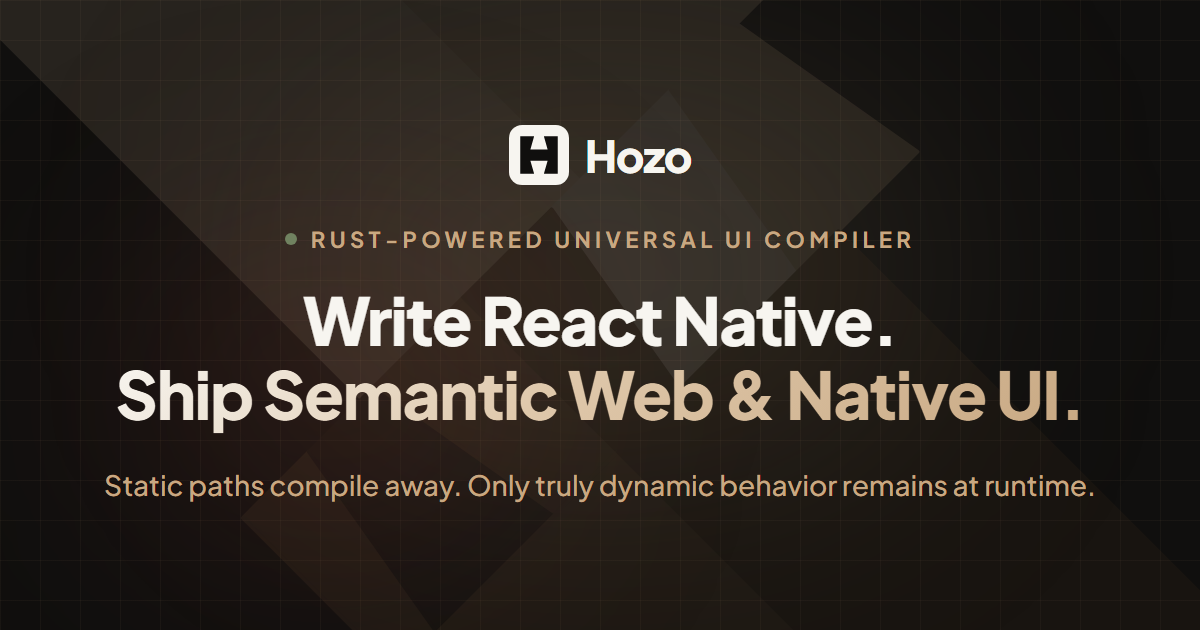
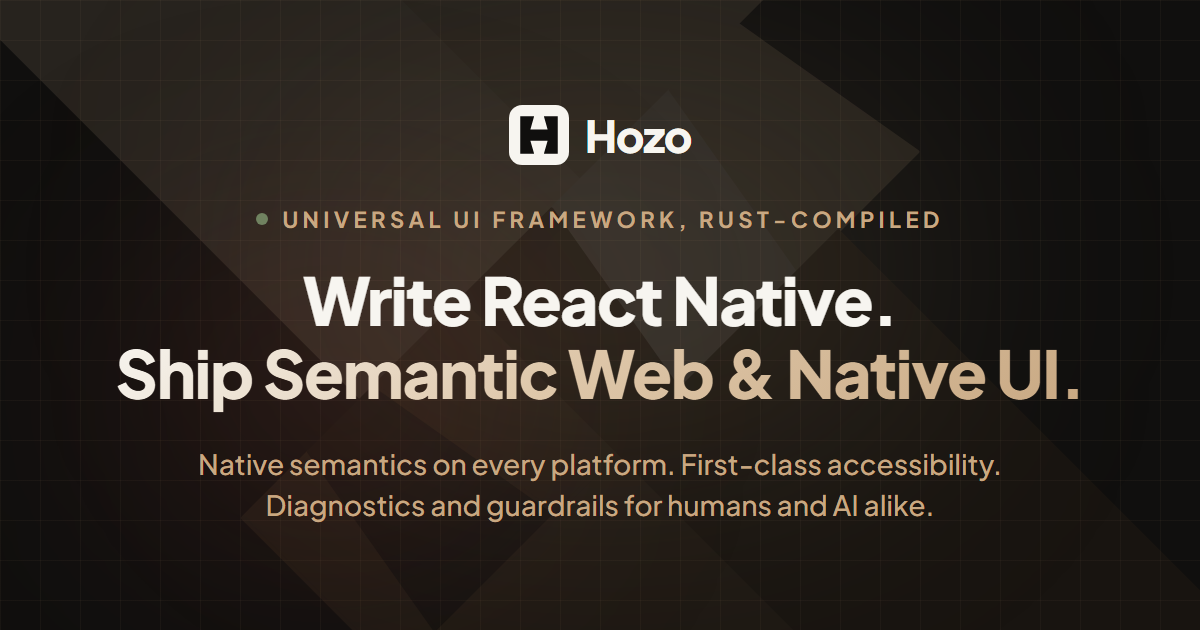
feat(landing): call Hozo a framework, and lead with semantics, accessibility and guardrails
The hero, the Open Graph card and the site's metadata still named Hozo a
compiler, which no longer says that it ships components. The eyebrow now
reads "Universal UI Framework, Rust-Compiled", the subtitle names the
semantics, accessibility and diagnostics, and the title, description,
JSON-LD, docs description and llms.txt say the same.

Claude-Session: https://claude.ai/code/session_01DF7JFtqDWG1odvT3z9xFy5

diff --git a/apps/landing/src/components/Hero.tsx b/apps/landing/src/components/Hero.tsx
@@ -22,7 +22,7 @@ export function Hero({ baseUrl = '' }: HeroProps) {
           <View className="inline-flex flex-row items-center gap-2 mb-8">
             <View className="h-2 w-2 rounded-full bg-tatami-light animate-pulse" />
             <Text className="text-xs sm:text-sm font-bold uppercase tracking-widest text-hinoki">
-              Rust-powered Universal UI Compiler
+              Universal UI Framework, Rust-Compiled
             </Text>
           </View>
 
@@ -42,11 +42,12 @@ export function Hero({ baseUrl = '' }: HeroProps) {
           {/* Subtitle */}
           <View className="max-w-3xl mx-auto mb-6 sm:mb-10 text-center flex flex-col gap-3">
             <Paragraph className="text-base sm:text-xl text-shikkui-muted leading-relaxed">
-              Compile React Native components and styles to semantic HTML and CSS on the Web, and
-              native primitives on iOS and Android.
+              React Native and Hozo's own components compile to semantic HTML and CSS on the Web,
+              and to native primitives on iOS and Android.
             </Paragraph>
             <Paragraph className="text-base sm:text-lg text-hinoki font-medium leading-relaxed">
-              Static paths compile away. Only truly dynamic behavior remains at runtime.
+              Native semantics on every platform. First-class accessibility. Diagnostics and
+              guardrails for humans and AI alike.
             </Paragraph>
           </View>
 

diff --git a/apps/landing/src/pages/llms.txt.ts b/apps/landing/src/pages/llms.txt.ts
@@ -37,7 +37,7 @@ export const GET: APIRoute = ({ site }) => {
 
   const body = `# Hozo
 
-> A Rust-powered universal UI compiler and accessibility-first layer for React Native. It compiles React Native and Hozo components to semantic HTML and CSS on the Web, and to React Native primitives with precomputed StyleSheets on device, reporting accessibility problems at build time.
+> A universal UI framework for React Native, compiled by Rust: native semantics on every platform, first-class accessibility, and diagnostics and guardrails for humans and AI agents alike. It compiles React Native and Hozo components, including the \`@hozo/ui\` component library, to semantic HTML and CSS on the Web, and to React Native primitives with precomputed StyleSheets on device, and reports accessibility and lowering problems at build time; \`@hozo/migration-audit\` reports the same for a whole project, for CI or an agent loop.
 
 Applications install \`@hozo/core\` and one build integration (\`@hozo/vite\`, \`@hozo/next\` or \`@hozo/metro\`). Existing React Native source compiles as written; \`className\` is Tailwind.
 

diff --git a/apps/landing/scripts/og-image.html b/apps/landing/scripts/og-image.html
@@ -149,12 +149,12 @@
         </svg>
         Hozo
       </div>
-      <div class="eyebrow"><span class="dot"></span>Rust-powered Universal UI Compiler</div>
+      <div class="eyebrow"><span class="dot"></span>Universal UI Framework, Rust-Compiled</div>
       <h1>
         Write React Native.<br />
         <span class="gradient-text">Ship Semantic Web &amp; Native UI.</span>
       </h1>
-      <p class="subtitle">Static paths compile away. Only truly dynamic behavior remains at runtime.</p>
+      <p class="subtitle">Native semantics on every platform. First-class accessibility.<br />Diagnostics and guardrails for humans and AI alike.</p>
     </main>
   </body>
 </html>

diff --git a/apps/landing/src/components/Footer.tsx b/apps/landing/src/components/Footer.tsx
@@ -23,7 +23,7 @@ export function Footer({ baseUrl = '' }: FooterProps) {
                 </View>
               </View>
               <Text className="font-bold text-shikkui tracking-tight">Hozo</Text>
-              <Text className="text-xs text-stone-500">| Universal UI Compiler</Text>
+              <Text className="text-xs text-stone-500">| Universal UI Framework</Text>
             </View>
 
             <View className="flex flex-col items-center sm:items-end gap-1.5 shrink min-w-0">
